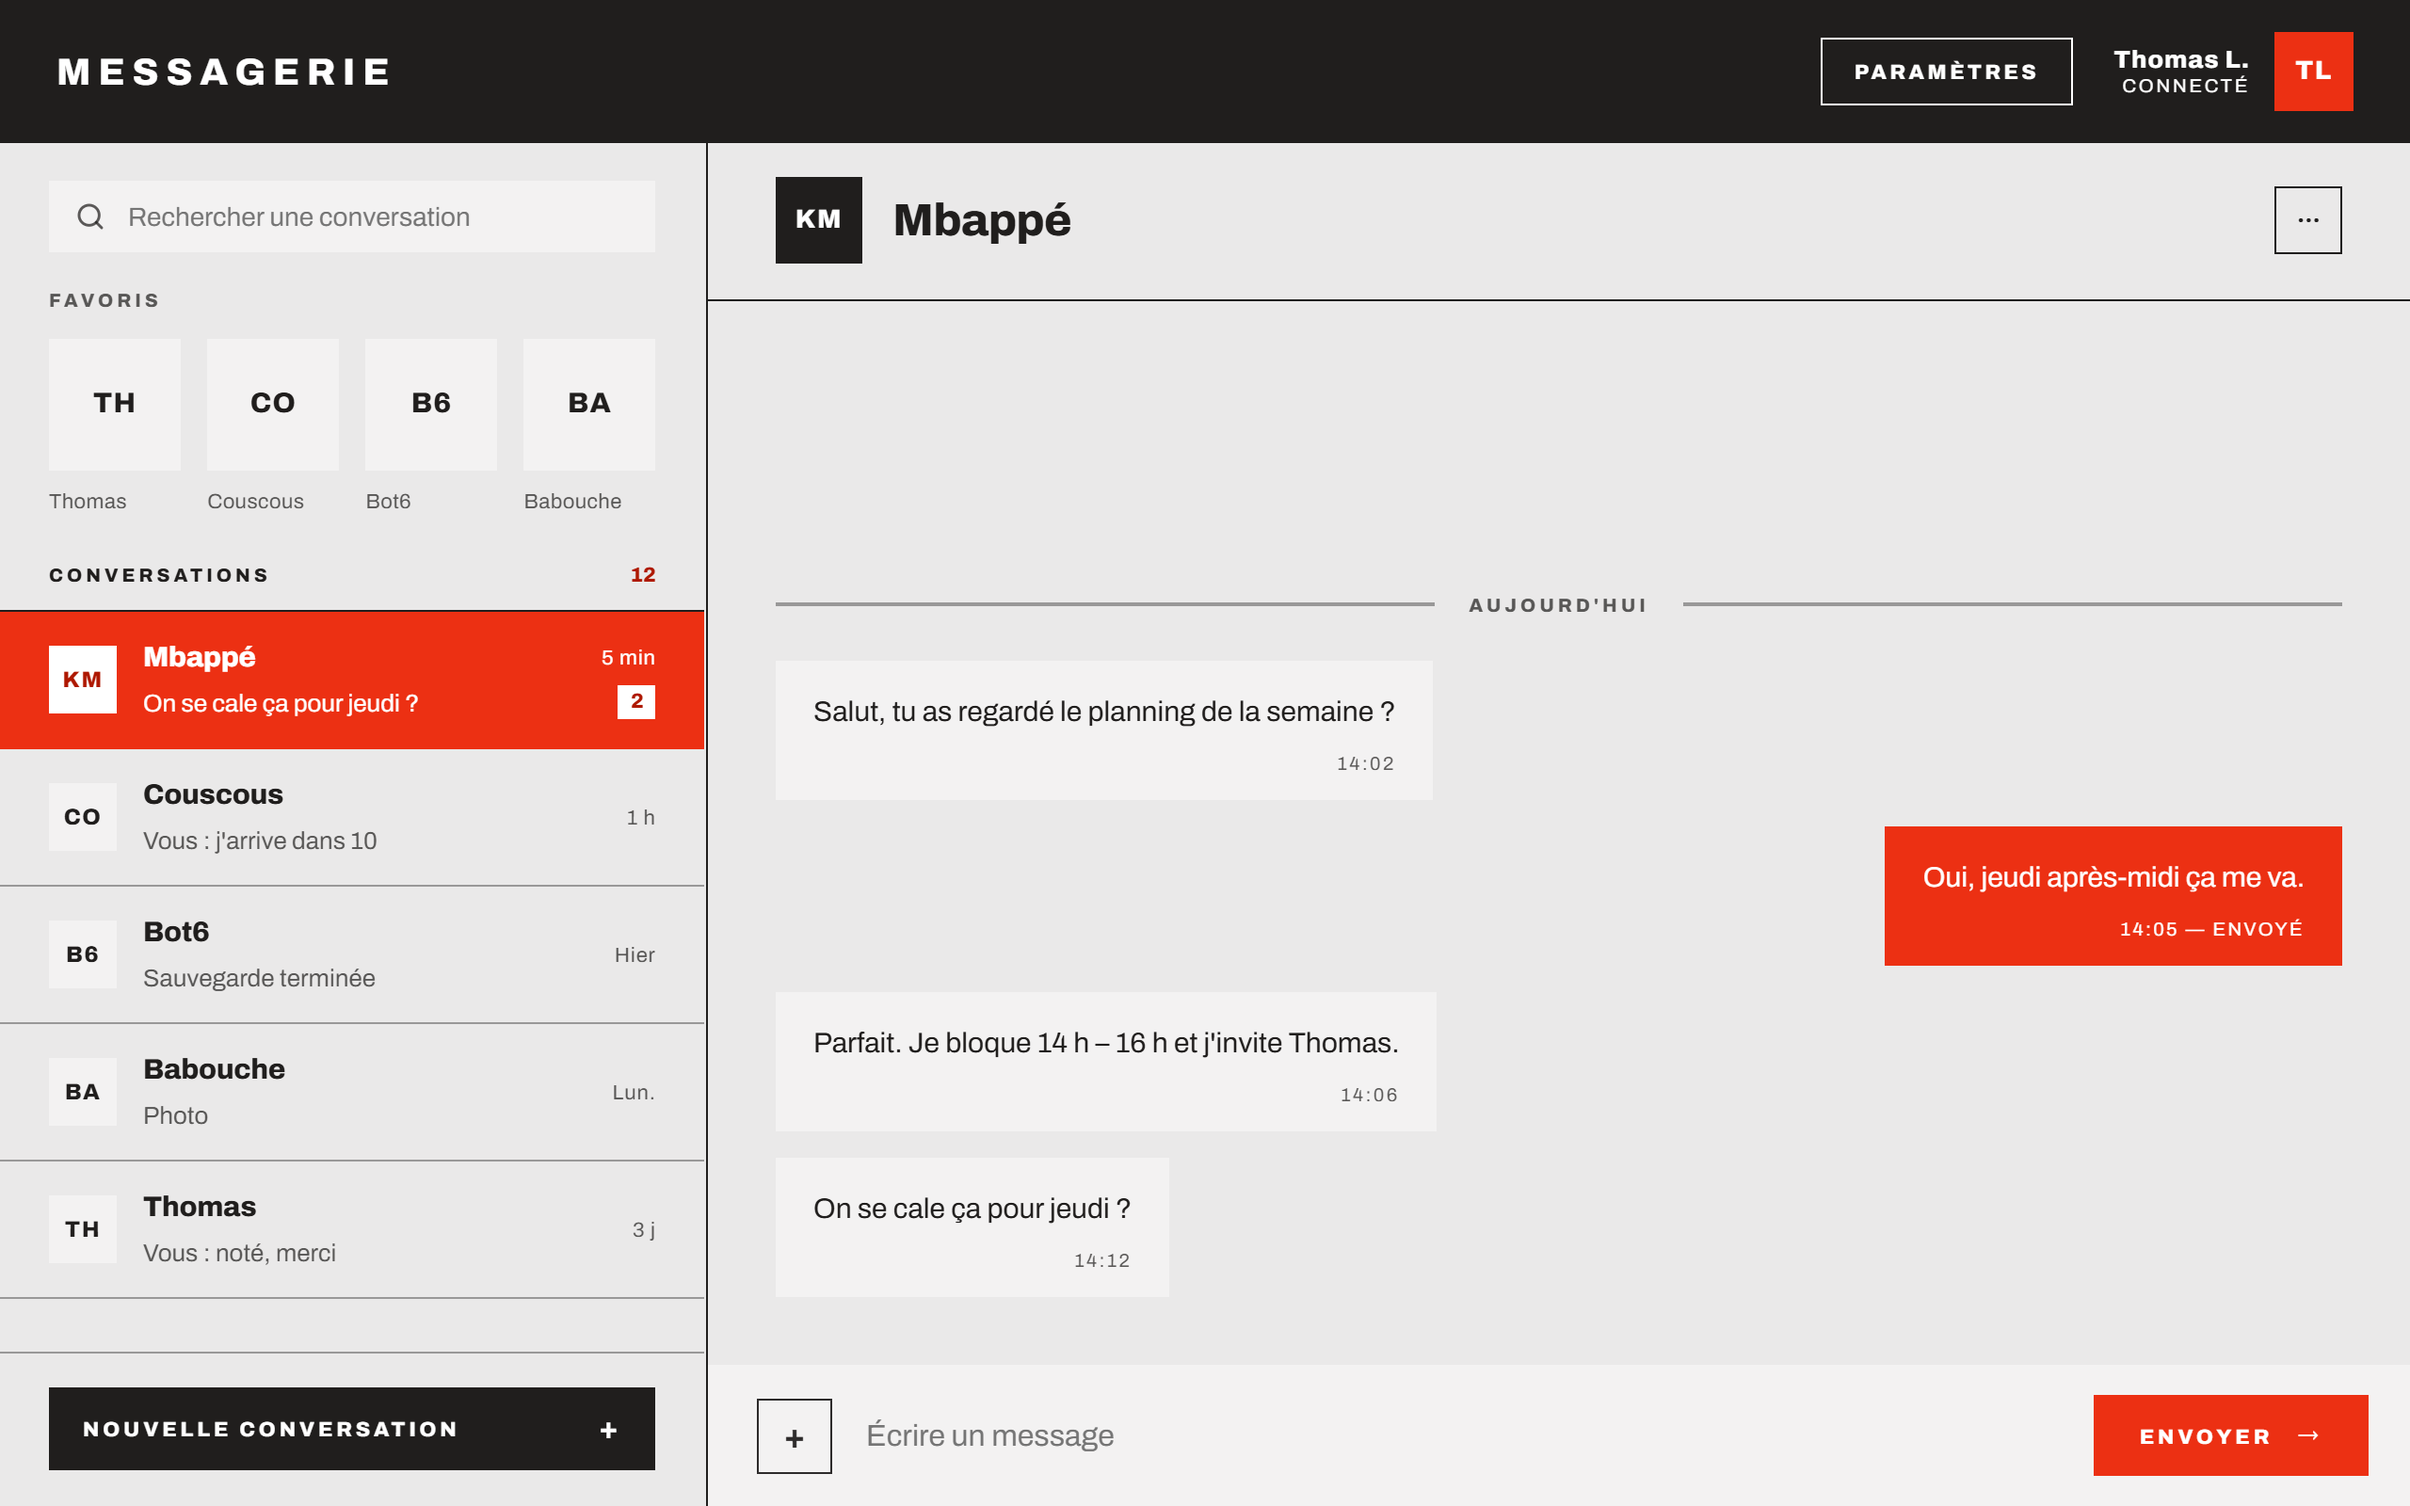
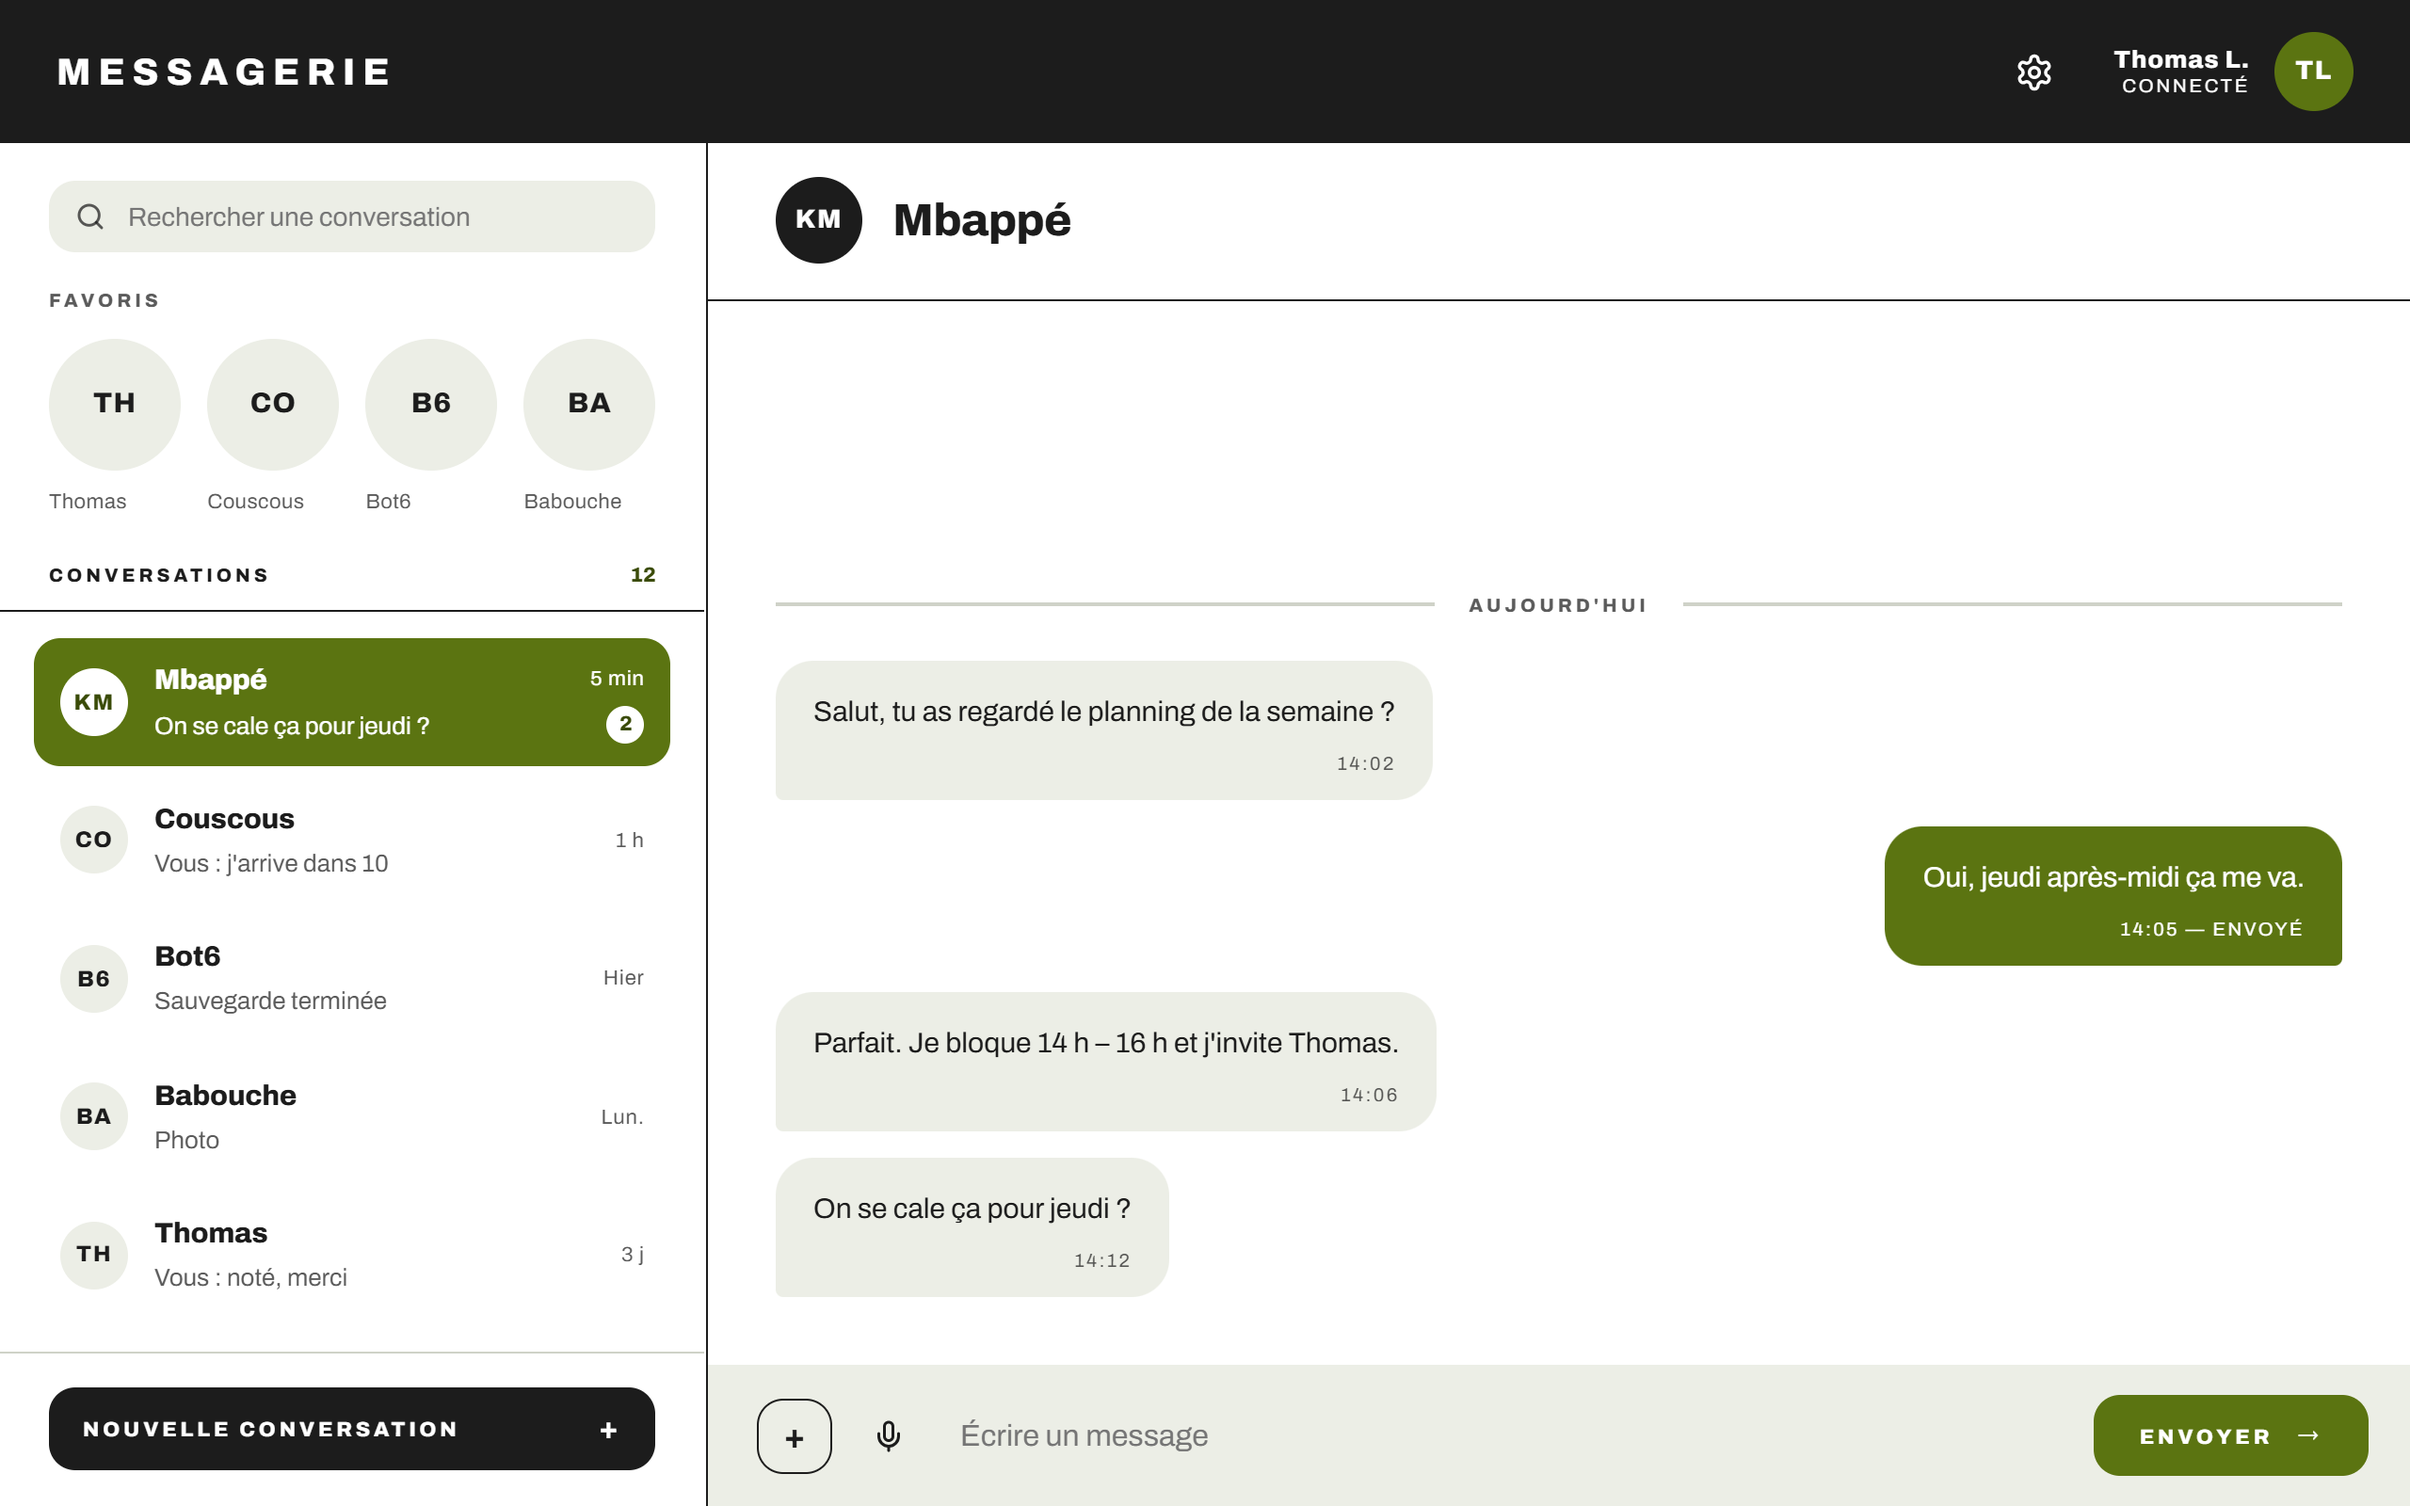
Modifications maquettes

diff --git a/inscription.html b/inscription.html
@@ -16,8 +16,7 @@
       <header>
         <p>Messagerie</p>
       </header>
-      <h1>Inscrivez-vous et</h1>
-      <p>discutez sans interruptions</p>
+      <h1>Inscrivez-vous</h1>
     </section>
 
     <!-- Formulaire de création de compte -->

diff --git a/connexion.html b/connexion.html
@@ -16,8 +16,7 @@
       <header>
         <p>Messagerie</p>
       </header>
-      <h1>Connectez-vous et</h1>
-      <p>discutez sans interruptions</p>
+      <h1>Connectez-vous</h1>
     </section>
 
     <!-- Formulaire de connexion -->
